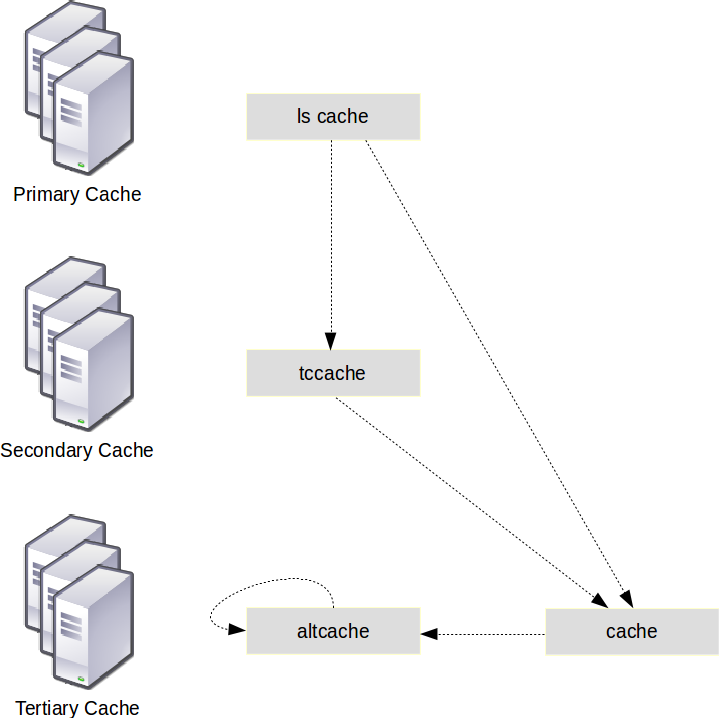
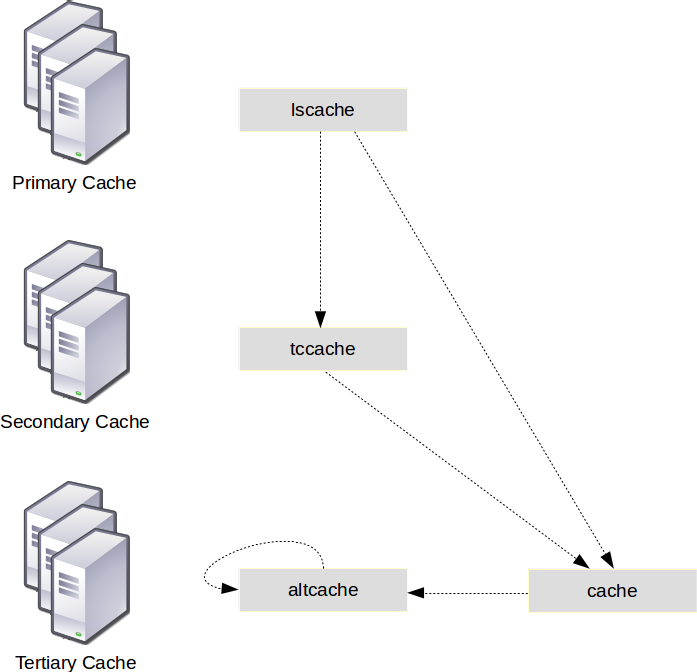
Finish paper

diff --git a/03_hardware_side.tex b/03_hardware_side.tex
@@ -1,7 +1,7 @@
 \section{Hardware Side - Delivery Infrastructure}
 \label{chp:hardware_side}
 
-YouTube was released in 2005 and had an immediate success, resulting in a stunning growth ever since. This growth led to changes in the infrastructure, so that is today more flexible and scalable. In late 2007 Google acquired YouTube and the delivery architecture that initially used third party content distribution network services is now fully operated and managed by Google.
+YouTube was released in 2005 and had an immediate success, resulting in a stunning growth ever since. This growth led to changes in the infrastructure, so that today the web site is more flexible and scalable. In late 2007 Google acquired YouTube and the delivery architecture that initially used third party content distribution network services is now fully operated and managed by Google.
 \\
 \\
 Describing a system like YouTube that constantly evolves is not easy, but a lot of the underlying design principles will most likely stay the same for some time.
@@ -19,57 +19,52 @@ Watching a video on YouTube includes downloading the video (or parts of the vide
 \end{figure}
 
 \begin{enumerate}
-  \item The client requests a specific video on the YouTube web page via http://www.youtube.com/watch?v=<videoID>. YouTube has multiple front-end servers for client requests, whereby one server will be responsible for a single request (without considering server crashes).
+  \item The client requests a specific video on the YouTube web page via http://www.youtube.com/watch?v=<videoID>. YouTube has multiple front end servers for client requests, whereby one server will be responsible for a single request (without considering server crashes).
   
-  \item The client downloads the corresponding HTML page. Depending on the video and the profile configuration, the actual video is either embedded through a Adobe Flash Player plugin or a HTML5 video container\footnote{YouTube currently tries to use the HTML5 player always when possible\cite{misc:youtube_html5}}. The relevant container takes further care of the download and the playback of the video. The name of the cache server that will provide the video is among the parameters provided for the plugin or the HTML5 container \cite{inpr:server_selection}.
+  \item The client downloads the corresponding \gls{html} page. Depending on the video and the profile configuration, the actual video is either embedded through a Adobe Flash Player plugin or a HTML5 video container\footnote{YouTube currently tries to use the HTML5 player always when possible \cite{misc:youtube_html5}}. The relevant container takes further care of the download and the playback of the video. The name of the cache server that will provide the video is among the parameters provided for the plugin or the HTML5 container \cite{inpr:server_selection}.
   
   \item The respective cache server will be queried for the first video part via: \seqsplit{https://<hostname>.googlevideo.com/videoplayback?<request-parameter>}. 
 
-  \item If the cache server has the video and is not overloaded, the server will send the first part of the video ot the client. The client on the other hand will send requests for further video parts, if he keeps watching the respective video part. \\
+  \item If the cache server has the video and is not overloaded, the server will send the first part of the video to the client. The client on the other hand will send requests for further video parts, if he keeps watching the video. \\
 \\
-If the cache server does not have the video or is overloaded, the server will send a redirect message (HTTP 302) to the client indicating another cache server. The request process continues at step 3 again. Thus it is possible, that multiple cache servers are included in the request process.
+If the cache server does not have the video or is overloaded, the server will send a redirect message (\gls{http} status code 302) to the client indicating another cache server. In this case the request process continues at step 3 again. Thus it is possible, that multiple cache servers are included in the request process.
 \end{enumerate}
 
 \subsection{Cache Server Infrastructure}
 
-The cache servers themselves are organized as cache clusters, whereby the servers of one cluster are co-located \cite{inc:video_delivery}. The number of machines per cache cluster is highly variable and depends, among others, on the demand for service issued in the region where the cluster is located and also on the available physical space to host the cache nodes. Each cache node as of 2011 already had a 10 GB / sec network access and 78 TB of disk storage \cite{misc:mmsys_keynote}.
+The cache servers themselves are organized in cache clusters, whereby the servers of one cluster are co-located \cite{inc:video_delivery}. The number of machines per cache cluster is highly variable and depends, among others, on the demand for service issued in the region where the cluster is located and also on the available physical space to host the cache nodes. Each cache node as of 2011 already had a 10 GB/sec network access and 78 TB of disk storage \cite{misc:mmsys_keynote}. YouTube's cache selection is quite sophisticated and tries to satisfy users by selecting a nearby cache cluster. The choice of a close-by cache cluster (in terms of \gls{rtt}) is typically done through a \gls{dns} resolution. Each video ID can be deterministically mapped via consistent hashing onto a unique logical name in the first cache namespace, which makes it easy to decide for each cache what portion of the videos it is responsible to serve. Using traces from a European \gls{isp}, Torres \emph{et al.} \cite{inpr:server_selection} ascertained that as the total number of requests kept increasing, the percentage of requests handled by the closest cache cluster located inside that \gls{isp} decreased from 80\% to about 30\%. This implies that the \gls{dns} request resolution will direct clients to more distant but less loaded cache clusters. Thus \gls{dns} is used for coarse grained load balancing, with a \gls{ttl} of five minutes. Beyond that, internal redirections to other cache clusters can be performed to enable load balancing among the cache clusters.
 \\
 \\
-YouTube's cache selection is quite sophisticated and tries to satisfy users by selecting a nearby cache cluster and perform internal redirection to another cache cluster to perform load balancing among cache clusters. The choice of a close-by cache cluster (in terms of RTT) is typically done through DNS resolution. %Each video ID can be deterministically mapped via consistent hashing onto a unique logical name in the lscache namespace, which makes it easy to decide for each cache what portion of the videos it is responsible to serve.
-DNS is used for coarse grained load balancing, with a TTL of five minutes. 
-\\
-\\
-The various cache clusters are organized in a three tier hierarchy as shown in Figure~\vref{fig:cache_server}. The global infrastructure of the YouTube caches has been revealed by Adhikari et al. \cite{inpr:vivisecting_youtube} in 2011. They used the distributed infrastructure of the PlanetLab network to request thousands of videos from different vantage points in the world, which allowed to reverse engineer the cache infrastructure and the cache selection policies. 
+The various cache clusters are organized in a three tier hierarchy as shown in Figure~\vref{fig:cache_server}. The global infrastructure of the YouTube caches has been revealed by Adhikari \emph{et al.} \cite{inpr:vivisecting_youtube} in 2011. They used the distributed infrastructure of the PlanetLab network to request thousands of videos from different vantage points in the world, which allowed to reverse engineer the cache infrastructure and the cache selection policies. \\
 
 \begin{figure}[htbp]
   \begin{center}
-    \includegraphics[width=0.9\textwidth]{pictures/cache_server.png}
-    \caption{YouTube Cache organization; dashed lines indicate possible redirections}
+    \includegraphics[width=0.8\textwidth]{pictures/cache_server.png}
+    \caption[YouTube's cache organization]{YouTube's cache organization; dashed lines indicate possible redirections}
     \label{fig:cache_server}
   \end{center}
 \end{figure}
 
-The three tier caching infrastructure comprises of four different logical namespaces. The machines allocated to the different cache clusters are identified via particular naming conventions. The cache redirection mechanism with these clusters works as follows:
+The three tier caching infrastructure comprises of four different logical namespaces. The cache redirection mechanism with these clusters works as follows:
 
 \begin{description}
-  \item[Cache Hit] If the video is hot and there are copies at the primary caches, then a logical cache node (lscache namespace) in the primary cache is chosen. If there is no redirection, a machine from a cache cluster serves the video. If the primary cache cluster selected is overloaded, a redirection to a secondary cache cluster (tccache namespace) occurs. The secondary cache can serve the video or redirect it to a tertiary cache site (cache namespace) for load-balancing purposes. Again, in the tertiary cache cluster, the cache server can deliver the video, or perform another redirection. A redirection from a tertiary cache site will remain inside the tertiary cache level and ocur towards a cluster from the altcache namespace. A machine in this namespace now serves the video or redirects it inside the same namespace in case of overload. Very rarely, several redirections occur inside the altcache namespace, with the total number of redirections being limited to 9. For further details
-see.
+\item[Cache Hit:] If the requested video is currently popular and there are copies at the primary caches, a logical cache node (\emph{lscache} namespace) in the primary cache is chosen. If there is no redirection, a machine from a cache cluster serves the video. If however the primary cache cluster is overloaded, a redirection to a secondary cache cluster (\emph{tccache} namespace) occurs. The secondary cache can serve the video or redirect it to a tertiary cache site (\emph{cache} namespace) for load balancing purposes. Again, in the tertiary cache cluster, the cache server can deliver the video, or perform another redirection. All further redirections from a tertiary cache site will remain inside the tertiary cache level and occur towards a cluster from the \emph{altcache} namespace. A machine in this namespace now transfers the video at last or redirects it inside the same namespace in case of overload. Very rarely, multiple redirections are performed inside the \emph{altcache} namespace, with the total number of redirections being limited to 9. 
 
-  \item[Cache Miss] If the video is cold and there are no copies at the primary caches, then the request will be most likely redirected from the first level cache to a third level cache. The third level cache will fetch the video from the backend data server, cache it, and deliver the video to the client. It is quite common, as we will see in the next section, that users do not watch the entire video. Therefore, all videos are broken into chunks (of 2 MBytes) and the cache will continue to retrieve from the backend servers new chunks of a video as long as the user keeps viewing that video. Note that despite all the efforts of the engineering team of Google, the cache miss rate remains steadily at about 10\%.
+\item[Cache Miss:] If the video is currently not popular and there are no copies at the primary caches, the request will be most likely redirected from the first level cache to a third level cache directly. The respective video will be fetched from the back end data server by the third level cache server, which delivers the video to the client and also caches the video for further potential requests. It is quite common that users do not watch the entire video, which is why all videos are broken into chunks. The cache server will continue to retrieve data from the back end servers of a video as long as the user keeps viewing that video. This will be observed in more detail in chapter~\ref{sec:software_side}. \\
+  Despite all the efforts of Google, the cache miss rate remains steadily at about 10\% \cite{inc:video_delivery}.
 \end{description}
 
-Using traces from a European ISP, Torres et al. [12] observed that as the total number of requests kept increasing, the percentage of requests handled by the closest cache cluster located inside that ISP decreased from 80\% to about 30\%. In this case, DNS request resolution will direct clients to more distant but less loaded cache clusters.\\
-The redirections have an impact of the Performance. Each redirection involves:
+Every redirection has an impact on the performance, because each involves:
 
 \begin{enumerate}
-  \item DNS query to resolve the hostname of the next cache node,
-  \item Opening of a new TCP connection,
-  \item Issuing a new video query.
+  \item A \gls{dns} query to resolve the hostname of the next cache node
+  \item The opening of a new \gls{tcp} connection
+  \item The issuing of a new video query
 \end{enumerate}
 
-In case of redirections, the final cache server serving the video will most likely not be the closest one in terms of RTT, which has been observed in [12] for the most popular videos of the day. The impact of redirection on the time until the first MByte is downloaded (referred to as video initialization time) has also been studied in [7]. The video initialization time is on average 33\% higher if the video has been fetched through redirections. The fraction of sessions that have been redirected is evaluated in [10]: between 10\% and 30\% of all sessions are redirected at least once. The impact of redirections on the startup delay can also be important [10]:
+In case of redirections, the final cache server serving the video will most likely not be the closest one in terms of \gls{rtt}, which was observed for the most popular videos of the day by \cite{inp:network_characteristics}. The impact of redirections on the time until the first MB is downloaded (video initialization time) has been studied in \cite{inpr:vivisecting_youtube}. The video initialization time is on average 33\% higher when the video has been fetched through redirections. Furthermore the amount of sessions that are redirected at least once is between 10\% and 30\%, which was evaluated by \cite{inpr:youtube_everywhere}. They also figured out that the impact of redirections on the startup delay is also important:
 
 \begin{itemize}
-  \item Without redirections, delays are in the order of milliseconds
-  \item With redirections, delay can increase by orders of magnitude, up to 10 seconds
+  \item without redirections, delays are in the order of milliseconds
+  \item with redirections, delays can increase by orders of magnitude, up to 10 seconds
 \end{itemize}

diff --git a/04_software_side.tex b/04_software_side.tex
@@ -2,7 +2,7 @@
 \label{sec:software_side}
 \subsection{Software Components}
 
-The latest published software stack of YouTube is from 2012, when the head architect Mike Solomon gave a speech about the Scalibility of YouTube \cite{misc:scalibility_at_youtube} \cite{misc:hihgscalibility}. In Table~\vref{tab:software_components} the most important components mentioned by Solomon are listed.
+The latest published software stack of YouTube is from 2012, when the head architect Mike Solomon gave a speech about the scalability of YouTube \cite{misc:scalibility_at_youtube, misc:hihgscalibility}. In Table~\vref{tab:software_components} the most important components mentioned by Solomon are listed.\\
 
 \begin{table}[htbp]
   \begin{center}
@@ -22,34 +22,34 @@ The latest published software stack of YouTube is from 2012, when the head archi
       Apache Zookeeper & Distributed lock server, massively used for distributed configurations & Not mentioned \\
       \hline
     \end{tabularx}
-    \caption{Software Components for YouTube servers}
+    \caption{Software components for YouTube servers}
     \label{tab:software_components}
   \end{center}
 \end{table}
 
 It is remarkable that YouTube uses a lot of tools which are also used by smaller companies with much smaller web traffic. This is because their main programming/architecture goal is to keep everything as simple as possible as long as it works properly and scales. Thereby they also keep their flexibility to solve current and future problems.\\
 \\
-For the same reasons, YouTube is using Python as its main programming language to handle video requests. Performance-wise code written in Python is generally worse than similiar code written in languages like C, but new demands can be served much faster in most cases, which is more important for constantly changing (web) applications like YouTube.
+For the same reasons, YouTube is using Python as its main programming language to handle video requests. Performance-wise code written in Python is generally worse than similar code written in languages like C, but new demands can be served much faster in most cases, which is more important for constantly changing (web) applications like YouTube.
 
 \subsection{Scalability Techniques}
 
 Solomon also mentioned in his speech the different kinds of high-level scalability techniques which are used by YouTube to handle the enormous traffic:
 
 \begin{description}
-  \item[Divide \& Conquer:] The most used general scalibilty technique, where everything possible is partioned out. This includes among others the ability to add new web and cache servers to the cache clusters to manage bigger traffic.
+  \item[Divide \& Conquer:] The most used general scalability technique, where everything possible is partioned out. This includes among others the ability to add new web and cache servers to the server clusters to manage bigger traffic.
 
-  \item[Approximate correctness:] The global state of the YouTube system can be inconsistent. It only matters, whether the user recognizes these inconsistency. For example a user who writes a comment immediately wants to see the comment, but another user who watches the respective video does not care about the comment, because he does not know about it. Thus the system does not have to have globally consistent transactions, which would be very expensive. YouTube does not trigger a single transaction for a single comment, they rather update the comments in their system from time to time.
+  \item[Approximate correctness:] The global state of the YouTube system can be inconsistent. It only matters, whether the user recognizes the inconsistency. For example a user who writes a comment immediately wants to see the comment, but another user who watches the respective video does not care about the comment, because he does not know about it. Thus the system does not have to have globally consistent transactions, which would be very expensive in terms of load balancing. YouTube does not trigger a single transaction for a single comment, they rather update the comments in their system from time to time.
 
   \item[Jitter - Add entropy to the system:] Adding entropy to a large dis\-tri\-bu\-ted system can help to avoid so called thundering herds. For example if every cache server would have the same cache expiration time for a popular video, a thundering herd could be created, because all servers would expire the video at the same time. The solution in this case is to add entropy by setting the expiration time randomly in a specific time frame.
 \end{description}
 
-The approximation of the correctness is noteworthy, because YouTube does not guarentee a user who is watching a video that the comments, the view counter and the like/dislike counter are up to date. This is pretty different in comparison to business applications, where global consistency is very important. Moreover without this kind of cheating the scalibility of the YouTube web page would be probably much worse.
+The approximation of the correctness is noteworthy, because YouTube does not guarantee that the comments, the view counter and the like/dislike counter are up to date when a user is watching a video. This is pretty different in comparison to business applications, where global consistency is very important. Moreover without this kind of cheating the scalability of the YouTube web page would be probably much worse.
 
 \subsection{Traffic Management}
 
-YouTube videos are requested via HTTP over TCP, which is a transport protocol that assures reliable transfer by retransmitting lost data packets and performs congestion control to avoid overloading the network. As observed by \cite{inc:transport_protocols}, watching YouTube videos over UDP is also possible, but can result in visual impairments of the video contents if there is a network bottleneck. TCP on the other hand may lead to stalling of the video stream, but still outperforms UDP regarding Quality of Experience due to the paper. \\
+YouTube videos are requested via \gls{http} over \gls{tcp}, which is a transport protocol that assures reliable transfer by retransmitting lost data packets and performs congestion control to avoid overloading the network. As observed by \cite{inc:transport_protocols}, watching YouTube videos over \gls{udp} is also possible, but can result in visual impairments of the video content if there is a network bottleneck. \gls{tcp} on the other hand may lead to stalling of the video stream, but still outperforms \gls{udp} regarding \gls{qoe} due to the paper. \\
 \\
-YouTubes delivery strategy has been studied in great detail by Rao \emph{et al.} \cite{inp:network_characteristics}, where they show, that the respective strategy mainly depends on the factors listed in Table~\vref{tab:depence_factors}.
+YouTube's delivery strategy has been studied in great detail by Rao \emph{et al.} \cite{inp:network_characteristics}, where they show, that the respective strategy mainly depends on the factors listed in Table~\vref{tab:dependence_factors}.\\
 
 \begin{table}[htbp]
   \begin{center}
@@ -66,30 +66,32 @@ YouTubes delivery strategy has been studied in great detail by Rao \emph{et al.}
       \hline
     \end{tabularx}
     \caption{Dependence factors of the delivery strategy}
-    \label{tab:depence_factors}
+    \label{tab:dependence_factors}
   \end{center}
 \end{table}
 
-Considering these factors, the strategies primarily differ in two video content transferring phases - the \textbf{buffering state phase} and \textbf{steady state phase}. They are illustrated in Figure~\vref{fig:transferring_phases}.
+Considering these factors, the strategies primarily differ in two video content transferring phases - the \emph{buffering state phase} and \emph{steady state phase}. They are illustrated in Figure~\vref{fig:transferring_phases}.\\
 
 \begin{figure}[htbp]
   \begin{minipage}{\textwidth}
     \begin{center}
-      \includegraphics[width=0.5\textwidth]{pictures/transferring_phases.png}
-      \caption[test]{YouTube video content transferring phases\footnotemark[2]}
+      \includegraphics[width=0.45\textwidth]{pictures/transferring_phases.png}
+      \caption[YouTube's video content transferring phases]{YouTube's video content transferring phases\footnotemark[2]}
     \label{fig:transferring_phases}
     \end{center}
   \end{minipage}
 \end{figure}
 
+\setlength{\skip\footins}{0cm} % indent before footnote
 \footnotetext[2]{Taken from \cite{inp:network_characteristics}}
+\setlength{\skip\footins}{1cm} % indent before footnote
 
 \begin{description}
-  \item[Buffering phase:] In this phase the video will not be played first, but the initial video content part will be downloaded, which is called buffering. Thereby the data transfer rate is limited by the available end-to-end bandwidth. The playback begins when an efficient amount of data is available is in its buffer.
+  \item[Buffering phase:] In this phase the video will not be played first, but the initial video content part will be downloaded, which is called buffering. Thereby the data transfer rate is limited by the available end-to-end bandwidth. The playback begins when an efficient amount of data is available in the buffer.
 
-  \item[Steady state phase:] In this phase the video is tried to be playbacked with preferably few interruptions. In the best case the average download rate in slightly larger than the video encoding. If the average download rate gets smaller then the encoding rate, there will be interruptions in the playback of the video. The average download rate in  is achieved by periodically transferring one block of video content. These periodic transfers produce cycles of ON-OFF periods. During each ON period, a block of data is transferred at the end-to-end available bandwidth that can be used by TCP; the TCP connection is idle during the OFF periods.
+  \item[Steady state phase:] In this phase the video is tried to be playbacked with preferably few interruptions. In the best case the average download rate is slightly larger than the video encoding. If the average download rate gets smaller than the encoding rate, there will be interruptions in the playback of the video. The average download rate is achieved by periodically transferring one block of video content. These periodic transfers produce cycles of ON-OFF periods. During each ON period, a block of data is transferred at the end-to-end available bandwidth that can be used by TCP; the TCP connection is idle during the OFF periods.
 \end{description}
 
-The smooth playback of all videos for all users is a very important goal for YouTube to ensure the Quality of Experience. Besides this, they try to avoid transmitting to much data in advance of consumption in order to reduce the amount of buffering at the client, which is particularly relevant in the case of mobile devices and to reduce the waste of network and server resources by sending data that are never used. As to that Finamore \emph{et al.} \cite{inpr:youtube_everywhere} observed that people tend to abort the playback very soon, with 60\% of videos being watched for less than 20\% of their duration, which results in 25\%-39\% of data transferred unnecessarily. This waste of network traffic is even higher when mobile devices are considered. YouTube is well aware of these facts and therefore aggressive buffering is performed when a video is requested. This means that initially during the buffering phase the server sends as fast as possible to fill up the initial client buffer \cite{inp:network_characteristics}. When about 40 seconds of the video are loaded, the steady state phase will begin. Thus an initial smooth playback can be reached.
+The smooth playback of all videos for all users is a very important goal for YouTube to ensure the \gls{qoe}. Besides this, they try to avoid transmitting to much data in advance of consumption in order to reduce the amount of buffering at the client, which is particularly relevant in the case of mobile devices. Moreover the waste of network and server resources is tried to be kept low by avoiding sending data that is never used. As to that Finamore \emph{et al.} \cite{inpr:youtube_everywhere} observed that people tend to abort the playback very soon, with 60\% of videos being watched for less than 20\% of their duration, which results in 25\%-39\% of data transferred unnecessarily. This waste of network traffic is even higher when mobile devices are considered. YouTube is well aware of these facts and therefore aggressive buffering is performed when a video is requested. This means that initially during the buffering phase the server sends as fast as possible to fill up the initial client buffer \cite{inp:network_characteristics}. When about 40 seconds of the video are loaded, the steady state phase will begin. Thus an initial smooth playback can be reached.
 
 

diff --git a/05_summary.tex b/05_summary.tex
@@ -2,9 +2,9 @@
 
 In this seminar paper the delivery process of YouTube videos to client devices was observed. Therefore a closer look was taken both on the hardware and the software aspects of this process. \\
 \\
-In chapter \ref{chp:hardware_side} the delivery infrastructure - in other words the hardware side of the delivery process - was described. Most significant here is the usage of different server clusters for the transfer of the web site with the video container and the video content itself. The cache servers are organized in a three tier hierachy to enable load-balancing and faster delivery of popular videos. Despite this the redirections between the cache server introduce additional traffic which must be considered in the delivery process.\\
+In chapter \ref{chp:hardware_side} the delivery infrastructure - in other words the hardware side of the delivery process - was described. Most significant here is the usage of different server clusters for the transfer of the web site with the video container and the video content itself. The cache servers are organized in a three tier hierarchy to enable load balancing and faster delivery of popular videos. Despite this the redirections between the cache servers introduce additional traffic which must be considered in the delivery process.\\
 \\
 %TODO: check propreritar
-Aspects of the software side were explained in chapter \ref{sec:software_side}. That included the software stack which is used or at least was used in 2012 by YouTube for their servers. Very notable is that they use widely spreaded components like the Apache HTTP Server and MySQL rather than propreritar problem-optimized software. This is probably due to their goal to keep things as simple as possible as long as they scale. Furthermore they use considerable scalibilty techniques like the correctness approximation and the addition of entropy to enable things like view counters and comments for billions of user actions per day. Last but not least the traffic management of a video transfer depence on different factors like the device and the browser which are used. These factors affect the buffering and the steady state phase of the transfer.\\
+Aspects of the software side were explained in chapter \ref{sec:software_side}. That included the software stack which is used or at least was used in 2012 by YouTube for their servers. Very notable is that they use widely spread components like the Apache HTTP Server and MySQL rather than proprietary problem-optimized software. This is probably due to their goal to keep things as simple as possible as long as they scale. Furthermore they use considerable scalability techniques like the correctness approximation and the addition of entropy to enable things like view counters and comments for billions of user actions per day. Last but not least the traffic management of a video transfer depends on different factors like the device and the browser which are used. These factors affect the buffering and the steady state phase of the transfer.\\
 \\
-On the hardware side it will be interesting to see, whether the server infrastructure with the Front-end web servers and the hierachical cache servers will work properly for the increasing web traffic and amount of stored data. Google at least has the necessary means to add more and more servers to its infrastructure. On the software side the official current and future software stacks would be interesting to observe, because right now Googles only officialy announced self-written and massively used software component for YouTube is Vitess, which is nevertheless also open source. By using wide-spreaded open source software a lot, YouTube is one of the best examples, that scalibilty rather depence on the right design and configuration than on the used software itself.
+On the hardware side it will be interesting to see, whether the server infrastructure with the front end web servers and the hierarchical cache servers will work properly for the increasing web traffic and amount of stored data. Google at least has the necessary means to add more and more servers to its infrastructure. On the software side the official current and future software stacks would be interesting to observe, because right now Google's only officially announced self-written and massively used software component for YouTube is Vitess, which is nevertheless also open source. By using wide-spread open source software a lot, YouTube is one of the best examples, that scalability rather depends on the right design and configuration than on the used software itself.

diff --git a/02_introduction.tex b/02_introduction.tex
@@ -1,9 +1,9 @@
 \section{Introduction}
 
-The global Internet traffic is dominated by video streaming and downloading. In 2015  approximately 66\% (27 exabytes per month) of all consumer Internet traffic had to do with Internet videos, excluding P2P video file downloads. Furthermore this number is expected to increase to 80\% (89 exabytes per month) until 2019 \cite{misc:cisco}. Hence the Internet video streaming \& downloading providers  need scaling architectures to handle this amount of traffic.
+The global Internet traffic is dominated by video streaming and downloading. In 2015  approximately 66\% (27 exabytes per month) of all consumer Internet traffic had to do with Internet videos, excluding \gls{p2p} video file downloads. Furthermore this number is expected to increase to 80\% (89 exabytes per month) until 2019 \cite{misc:cisco}. Hence the Internet video streaming \& downloading providers  need scaling architectures to handle this amount of traffic.
 \\
 \\
-The traffic can be distinguished between delivery of live video streaming with on-the-fly encoding, like IPTV or Skype, and delivery of pre-encoded video, so called Video-on-Demand (VoD). The most famous VoD portal is YouTube, which already had more than 4 billion views a day in 2012 \cite{misc:scalibility_at_youtube}. More recent numbers are difficult to get, because YouTube itself does not reveal actual view numbers, but the YouTube press site states that every day people watch hundreds of millions of hours on YouTube and generate billions of views \cite{misc:youtube_press}.
+The traffic can be distinguished between delivery of live video streaming with on-the-fly encoding, like \gls{iptv} or Skype, and delivery of pre-encoded videos, so called \gls{vod}. The most famous \gls{vod} portal is YouTube, which already had more than 4 billion views a day in 2012 \cite{misc:scalibility_at_youtube}. More recent numbers are difficult to get, because YouTube itself does not reveal actual view numbers, but the YouTube press site states that every day people watch hundreds of millions of hours on YouTube and generate billions of views \cite{misc:youtube_press}.
 \\
 \\
-This seminar work focuses on investigating the architecture behind YouTube, even if this architecture is only partly unveiled by its owner – Google Inc. Fortunately the head architect of YouTube Mike Solomon gave a speech at the PyCon in 2012 about the scalability of YouTube4 and most of the concepts mentioned there are still present. Moreover some papers about the streaming platform have been published in the last couple of years, most of them discussing performance measurements and quality of experience, but some of them also addressing the server selection strategies.
+This seminar work focuses on investigating both the hardware and the software aspects of YouTube's video delivery process, even if the underlying infrastructure and the used software components are only partly unveiled by its owner - Google Inc. Fortunately the head architect of YouTube Mike Solomon gave a speech at the \gls{pycon} in 2012 about the scalability of YouTube \cite{misc:scalibility_at_youtube} and most of the concepts mentioned there are still present. Moreover some papers about the streaming platform have been published in the last couple of years, most of them discussing performance measurements \cite{inpr:vivisecting_youtube, inp:network_characteristics} and \gls{qoe} \cite{inc:video_delivery, inc:transport_protocols}, but some of them also addressing the server infrastructure \cite{inpr:server_selection, inpr:youtube_everywhere}.

diff --git a/seminar_paper.tex b/seminar_paper.tex
@@ -2,22 +2,31 @@
 
 \usepackage[T1]{fontenc}
 \usepackage[utf8]{inputenc}
-\usepackage{hyperref}
+%\usepackage{lmodern}
+%\usepackage{hyperref}
+\usepackage{nohyperref} % This makes hyperref commands do nothing without errors
+\usepackage{url}
 \usepackage{graphicx}
 \usepackage{seqsplit} 
 \usepackage{varioref} % for vref
 \usepackage{tabularx}
 \usepackage{tabulary}
 \usepackage{enumerate}
+\usepackage[acronym]{glossaries}
+
+\include{abbreviations}
+\makeglossaries
 
 % Variables
-\renewcommand{\title}{YouTubes video delivery process}
+\renewcommand{\title}{YouTube's video delivery process}
 \renewcommand{\author}{Jan Schlenker}
 
 \newcommand{\tabitem}{~~\llap{\textbullet}~~}
 
 \setlength{\parindent}{0pt} % no indent after figure
+\setlength{\skip\footins}{1cm} % indent before footnote
 
+% ******************** BEGIN OF DOCUMENT ********************
 \begin{document}
 
 \include{00_titlepage}
@@ -26,6 +35,7 @@
 \tableofcontents
 \newpage
 
+\printglossary[title=List of Acronyms, type=\acronymtype]
 \listoffigures
 \listoftables
 
@@ -40,3 +50,4 @@
 \include{06_declaration_of_authorship}
 
 \end{document}
+% ******************** END OF DOCUMENT ********************

diff --git a/abbreviations.tex b/abbreviations.tex
@@ -1,0 +1,13 @@
+\newacronym{p2p}{P2P}{Peer-to-Peer}
+\newacronym{vod}{VoD}{Video-on-Demand}
+\newacronym{iptv}{IPTV}{Internet Protocol Television}
+\newacronym{pycon}{PyCon}{Python Conference}
+\newacronym{rtt}{RTT}{Round Trip Time}
+\newacronym{dns}{DNS}{Domain Name System}
+\newacronym{ttl}{TTL}{Time to Live}
+\newacronym{isp}{ISP}{Internet Service Provider}
+\newacronym{tcp}{TCP}{Transmission Control Protocol}
+\newacronym{html}{HTML}{Hypertext Markup Language}
+\newacronym{http}{HTTP}{Hypertext Transfer Protocol}
+\newacronym{udp}{UDP}{User Datagram Protocol}
+\newacronym{qoe}{QoE}{Qualitiy of Experience}
